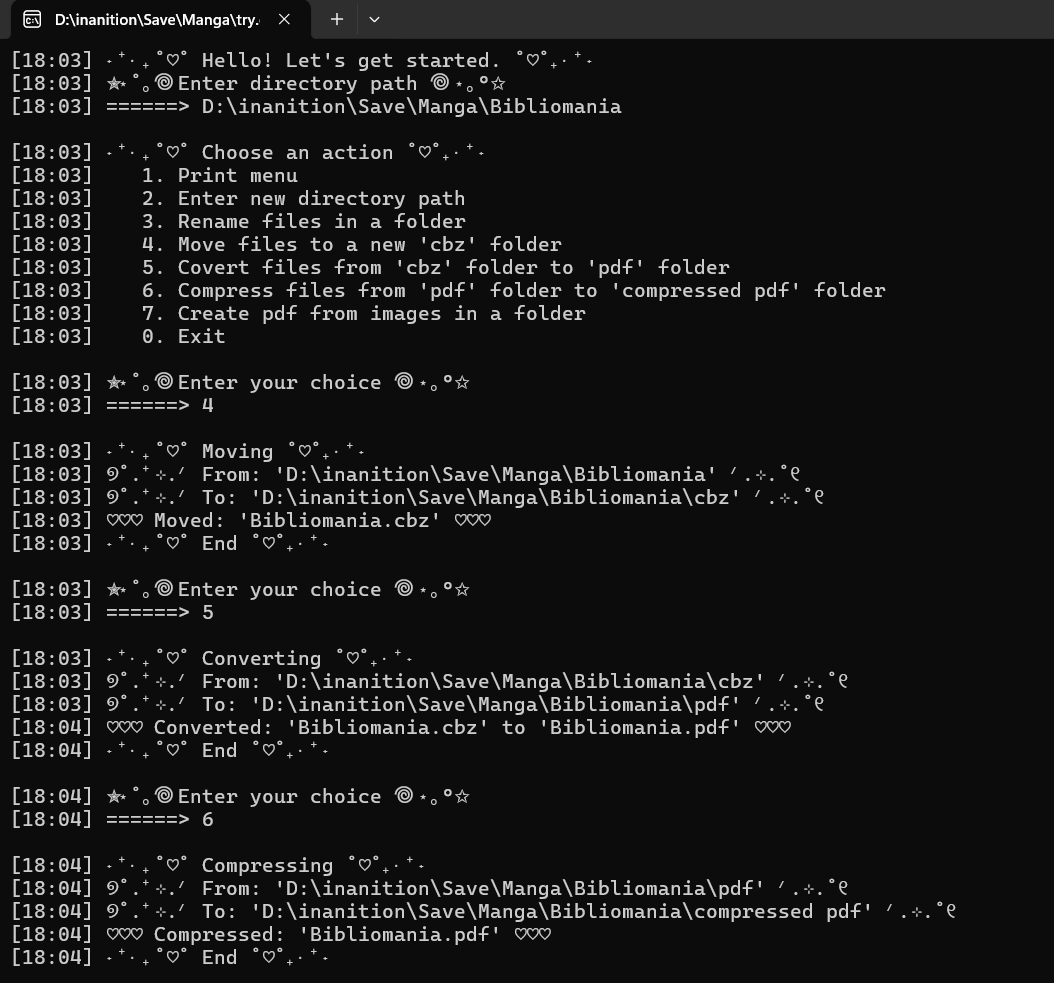
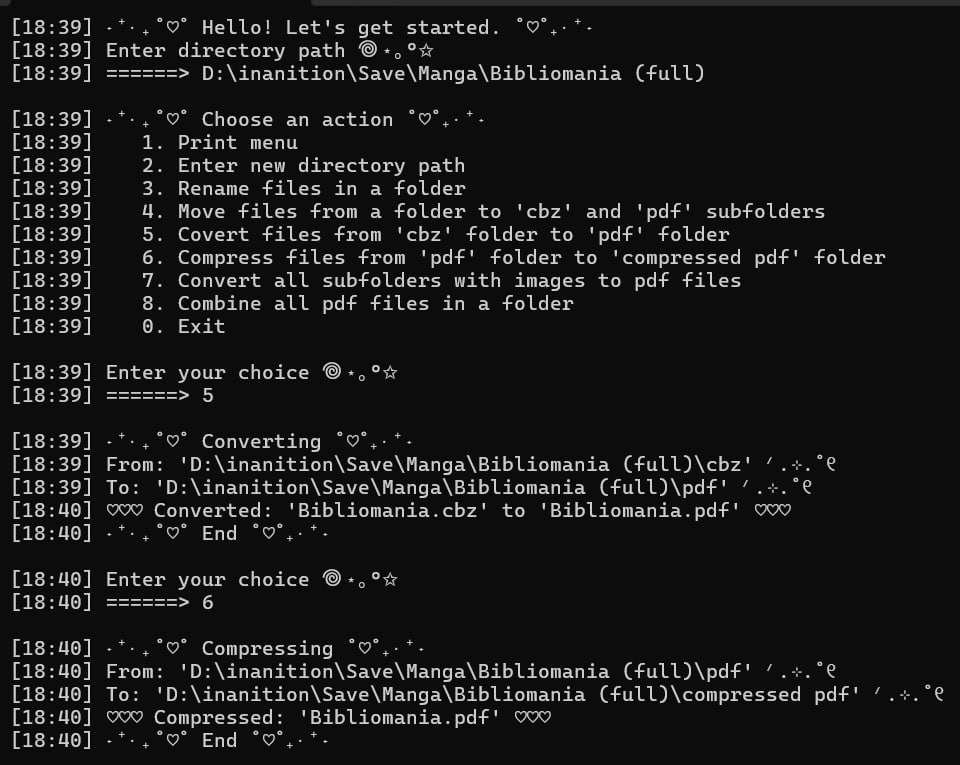
Refactor: change logs

diff --git a/helper.py b/helper.py
@@ -31,7 +31,7 @@ def log_header_with_time(message):
 def input_with_time(message):
     current_time = datetime.now().strftime("%H:%M")
     log_with_time(f"Enter {message} 𖦹 ⋆｡°✩")
-    result = input(f"[{current_time}] ======> ").strip()
+    result = input(f"[{current_time}] ===> ").strip()
     return result
 
 
@@ -149,7 +149,6 @@ def move_cbz_and_pdf_files(folder_path):
     os.makedirs(pdf_folder_path, exist_ok=True)
 
     log_path_with_time(f"From: '{folder_path}'")
-    log_path_with_time(f"To: '{cbz_folder_path}' and '{pdf_folder_path}'")
 
     for filename in os.listdir(folder_path):
         source_path = os.path.join(folder_path, filename)
